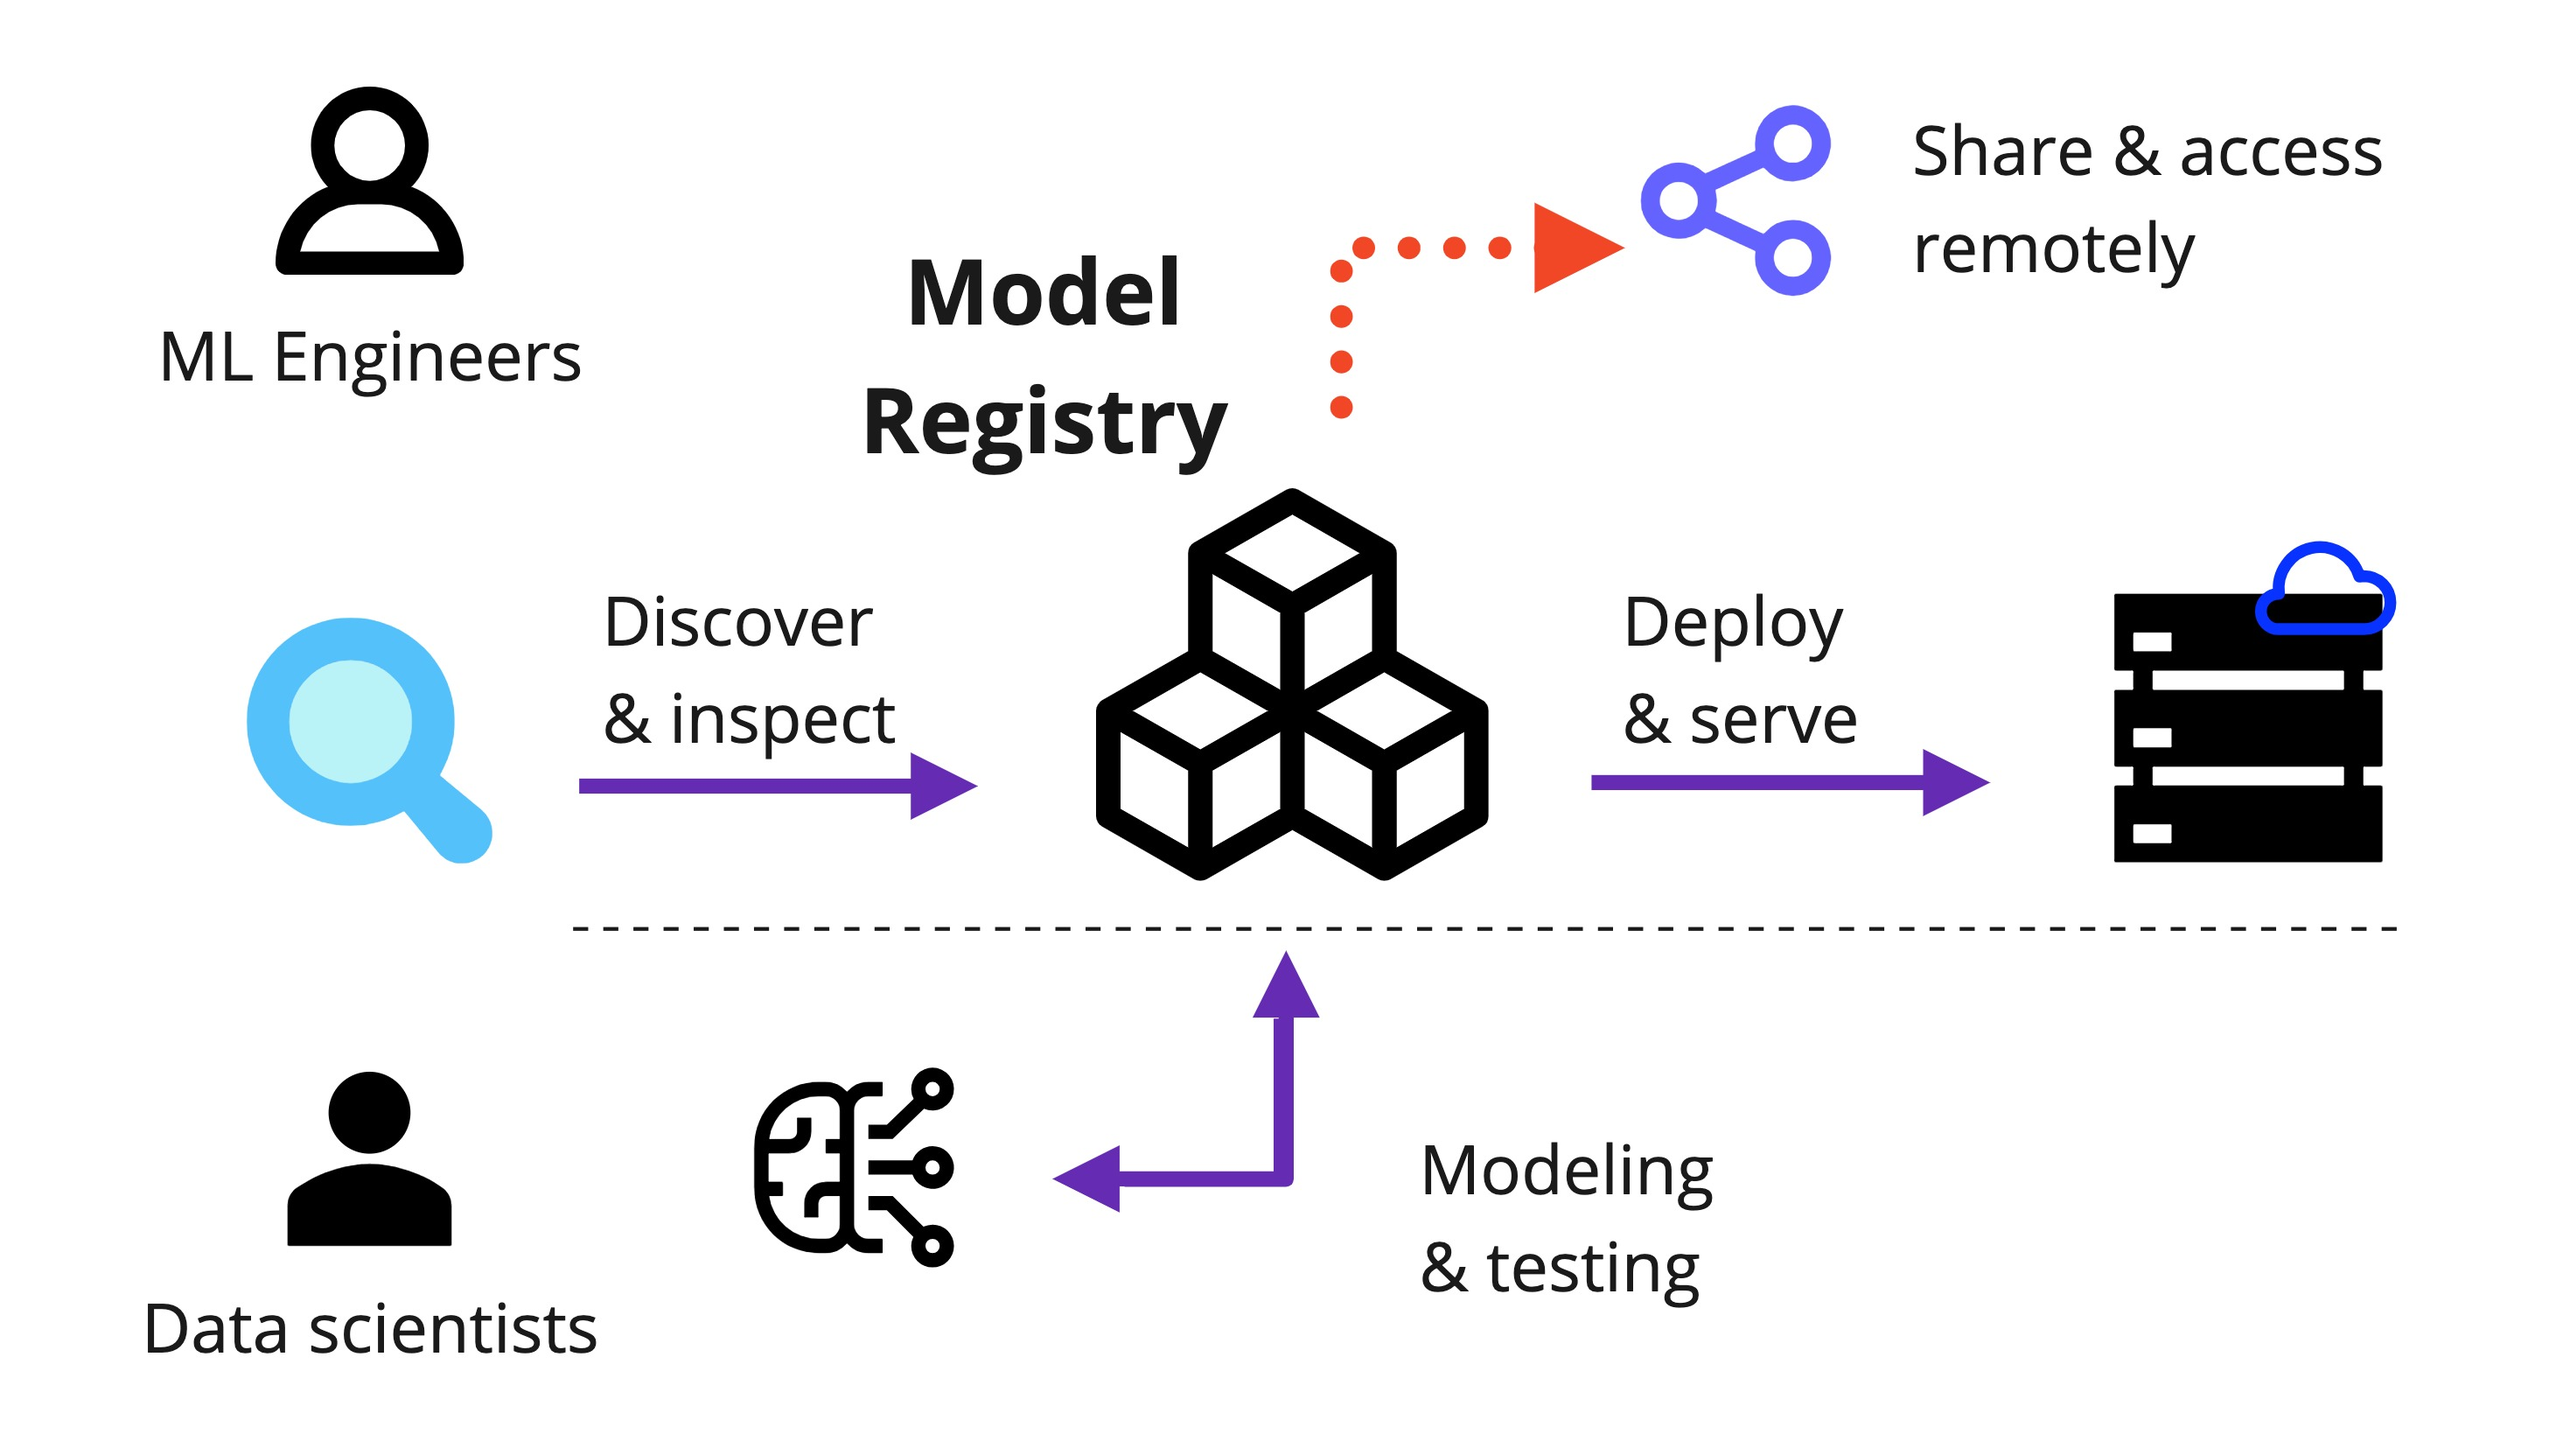
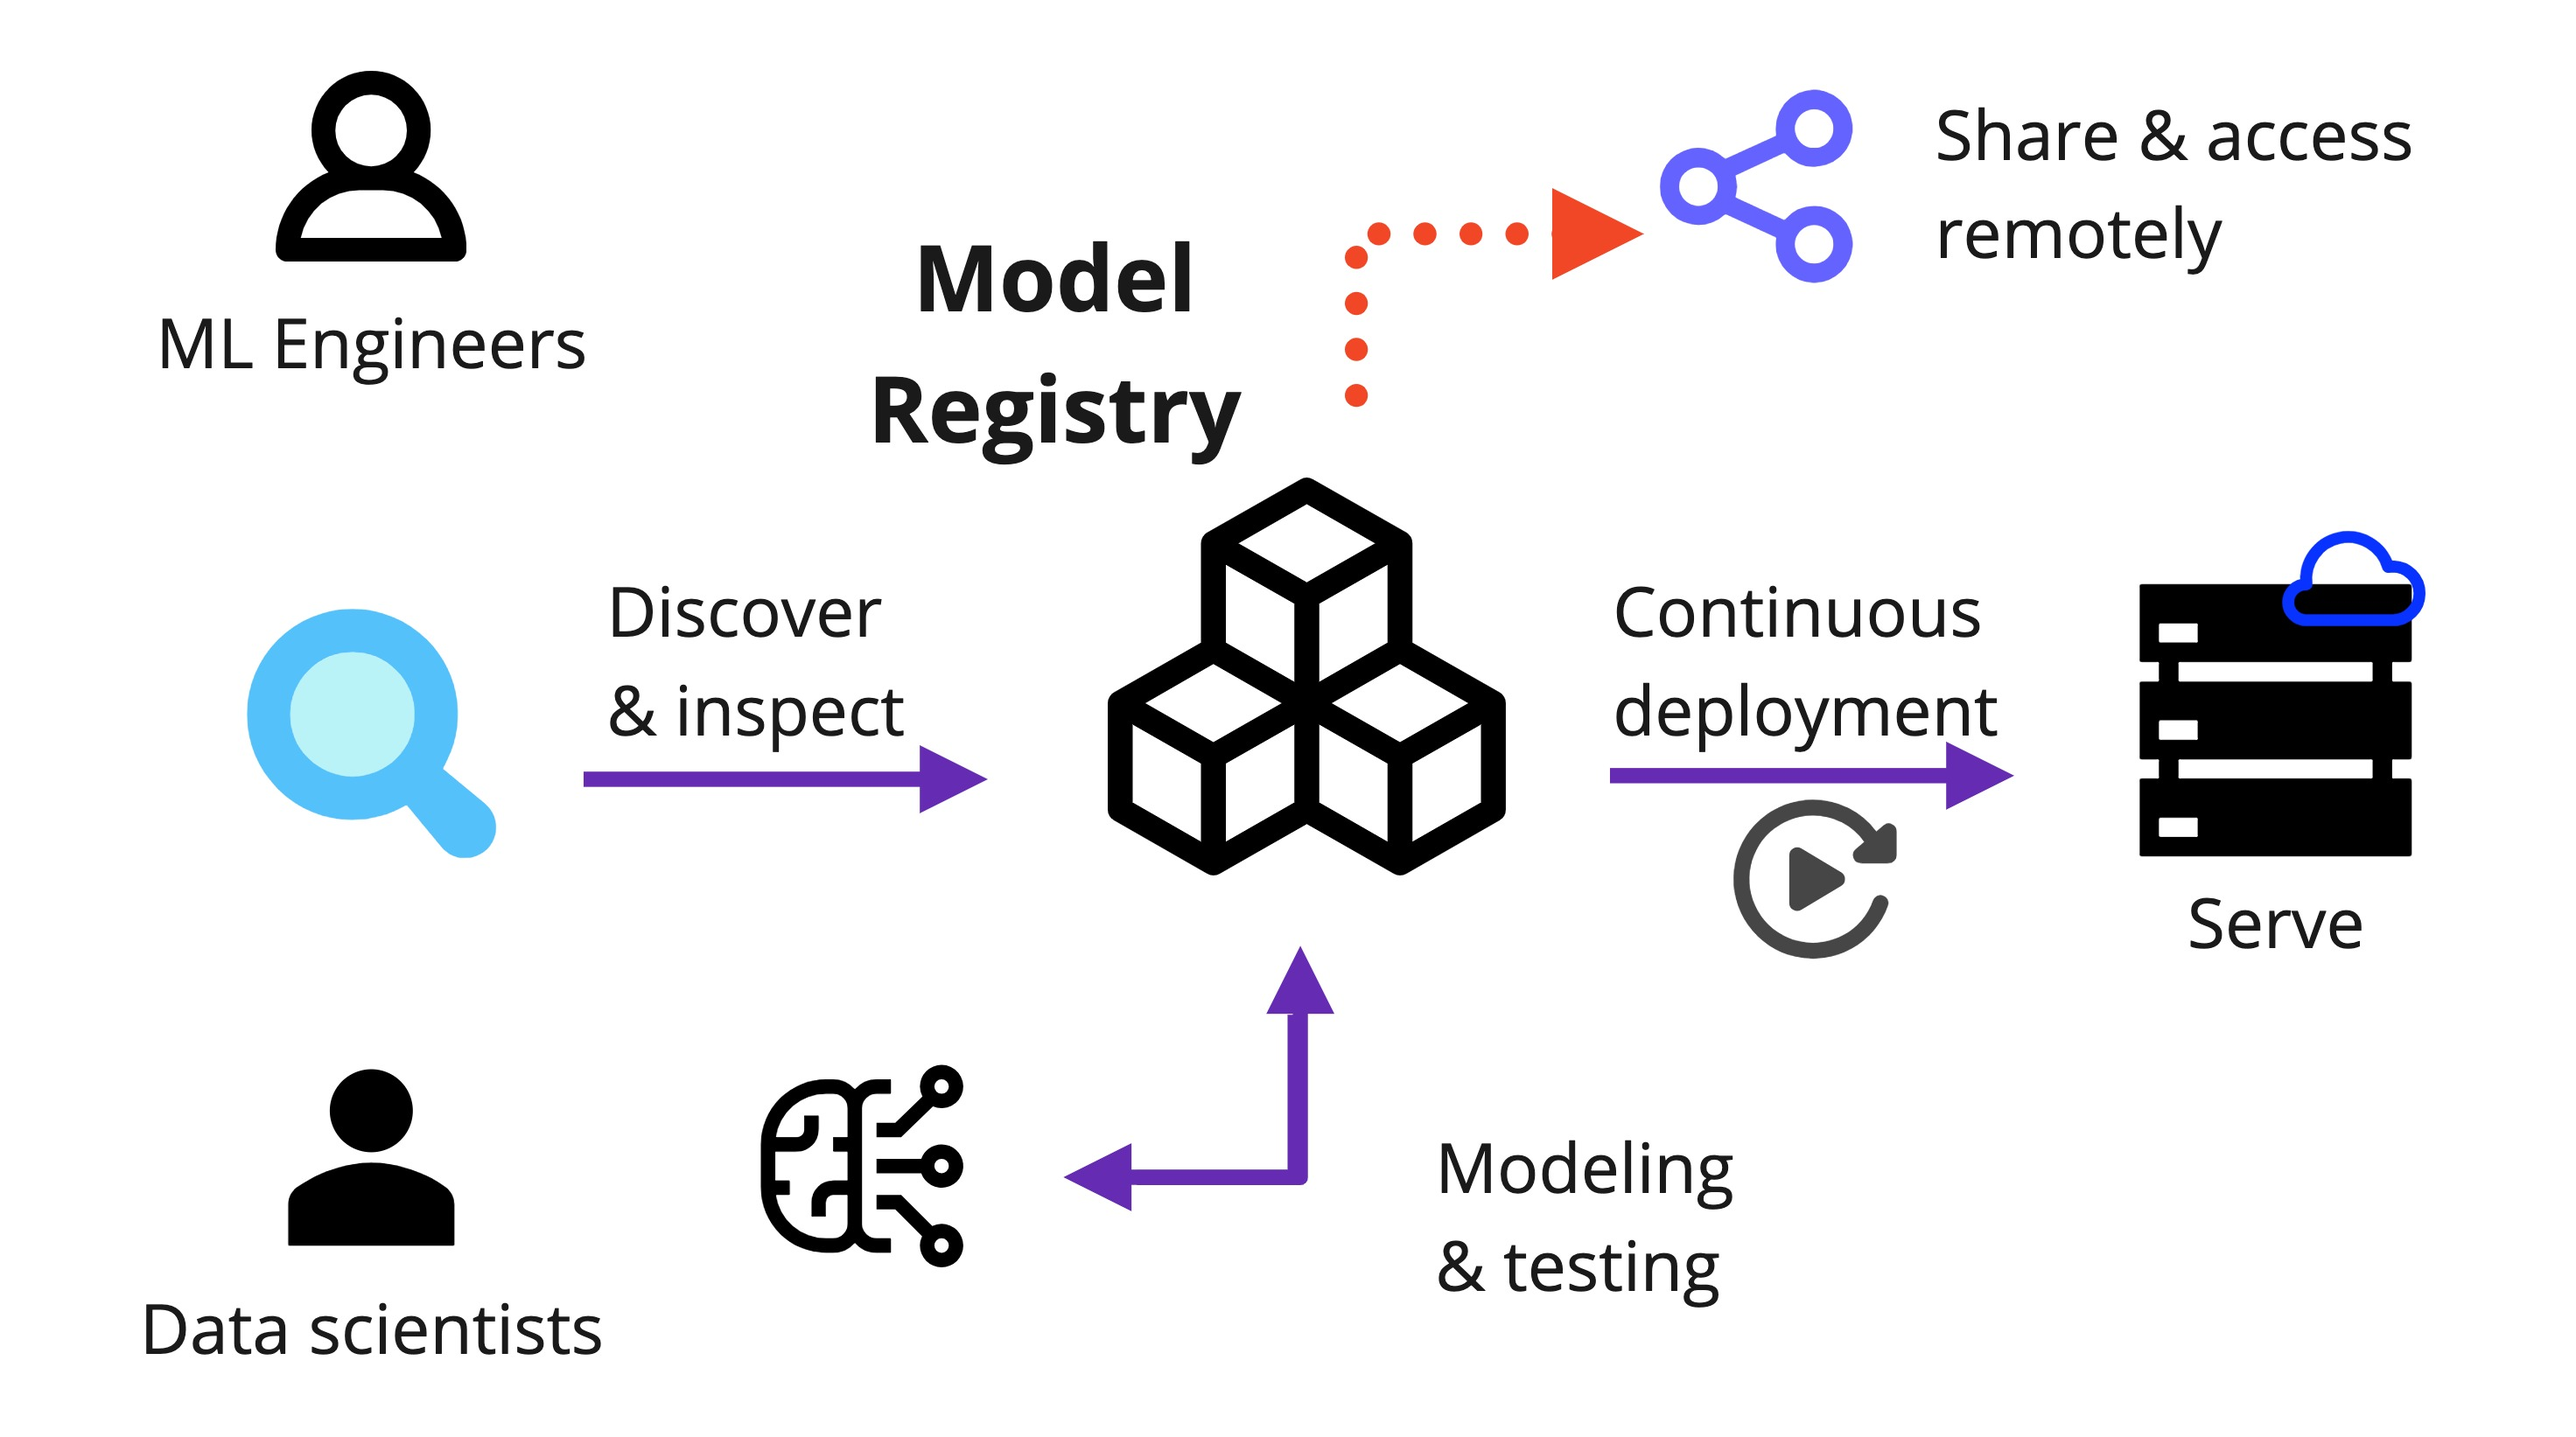
cases: updates to Mod Reg per #3333 feedback

diff --git a/content/docs/use-cases/model-registry.md b/content/docs/use-cases/model-registry.md
@@ -1,4 +1,4 @@
-# Machine Learning Model Registries
+# Machine Learning Model Registry
 
 A **model registry** is a central catalog for data artifacts produced in
 multiple data science projects. Different models can be discovered, audited,
@@ -12,7 +12,7 @@ registries is between development and applications. See also [Data Registries]._
 
 [data registries]: /doc/use-cases/data-registries
 
-DVC model registries give your team key collaborative capabilities:
+DVC model registries gives your team key collaborative capabilities:
 
 - Store, organize, and track the [versions] of different models effectively.
 - Full data provenance and lineage trails guarantee that your modeling is
@@ -20,22 +20,24 @@ DVC model registries give your team key collaborative capabilities:
 - Share and control access to any data artifact, whether these are early-stage
   [experiments] or production-ready models.
 - Save performance [metrics and plots] to quickly evaluate and compare models.
-- A platform to export, integrate, deploy, or roll-back published models
+- An interface to access specific model versions from other systems (e.g. for
+  continuous integration or deployment)
 
 [experiments]: /doc/user-guide/experiment-management
 [metrics and plots]: /doc/start/metrics-parameters-plots
 
 Many of these benefits are built into DVC: Your [modeling process] and
 performance metadata become **codified** in Git-based <abbr>DVC projects</abbr>.
-This makes it possible to manage them with standard GitOps workflows. Large
-files can be pushed to [remote storage], an efficient and scalable access point
-for your models.
+This makes it possible to manage them with standard GitOps workflows along with
+code. Large files can be pushed to [remote storage], an efficient and scalable
+access point for your models.
 
 To achieve the remaining goals, the final outputs of these model development
-projects can be **packaged** and published in a global DVC repository. Existing
-model files stored remotely are reused without copying them, so building the
-registry is fast. A connection to the original projects is preserved, so you can
-always retrieve full lineage and provenance information.
+projects can be **packaged** together with their metadata, and published in a
+global DVC repository. Existing model files stored remotely are reused without
+copying them, so building the registry is fast. A connection to the original
+projects is preserved, so you can always retrieve full lineage and provenance
+information.
 
 DVC repos are already great for [sharing] data and models. Now you also have
 proper tools to get models from the registry to production: deploy manually with
